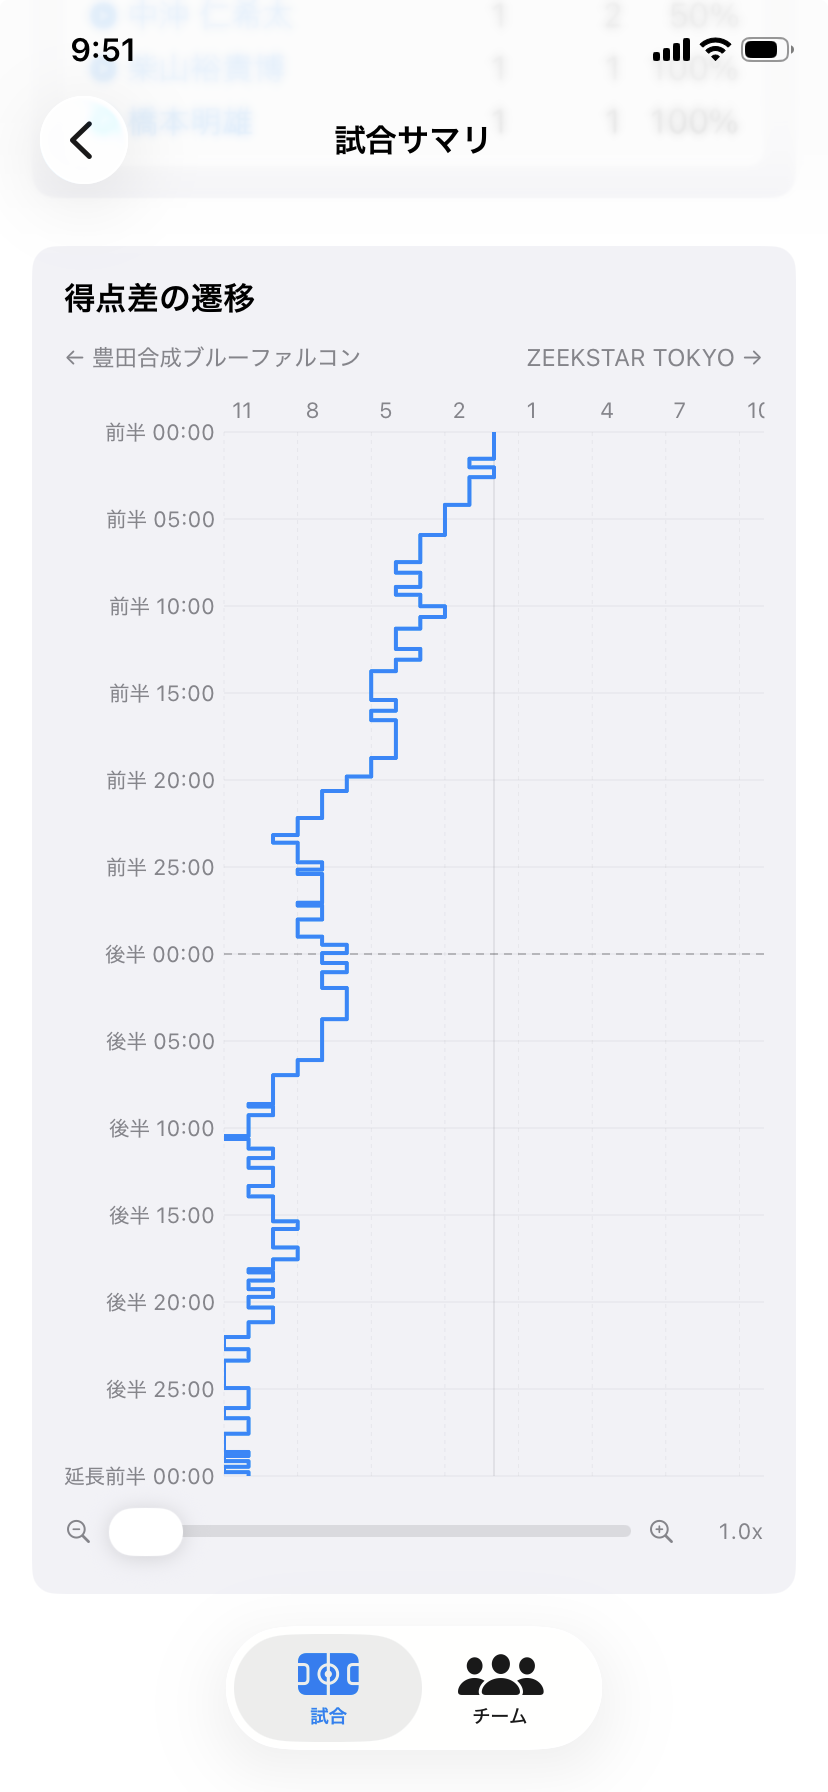
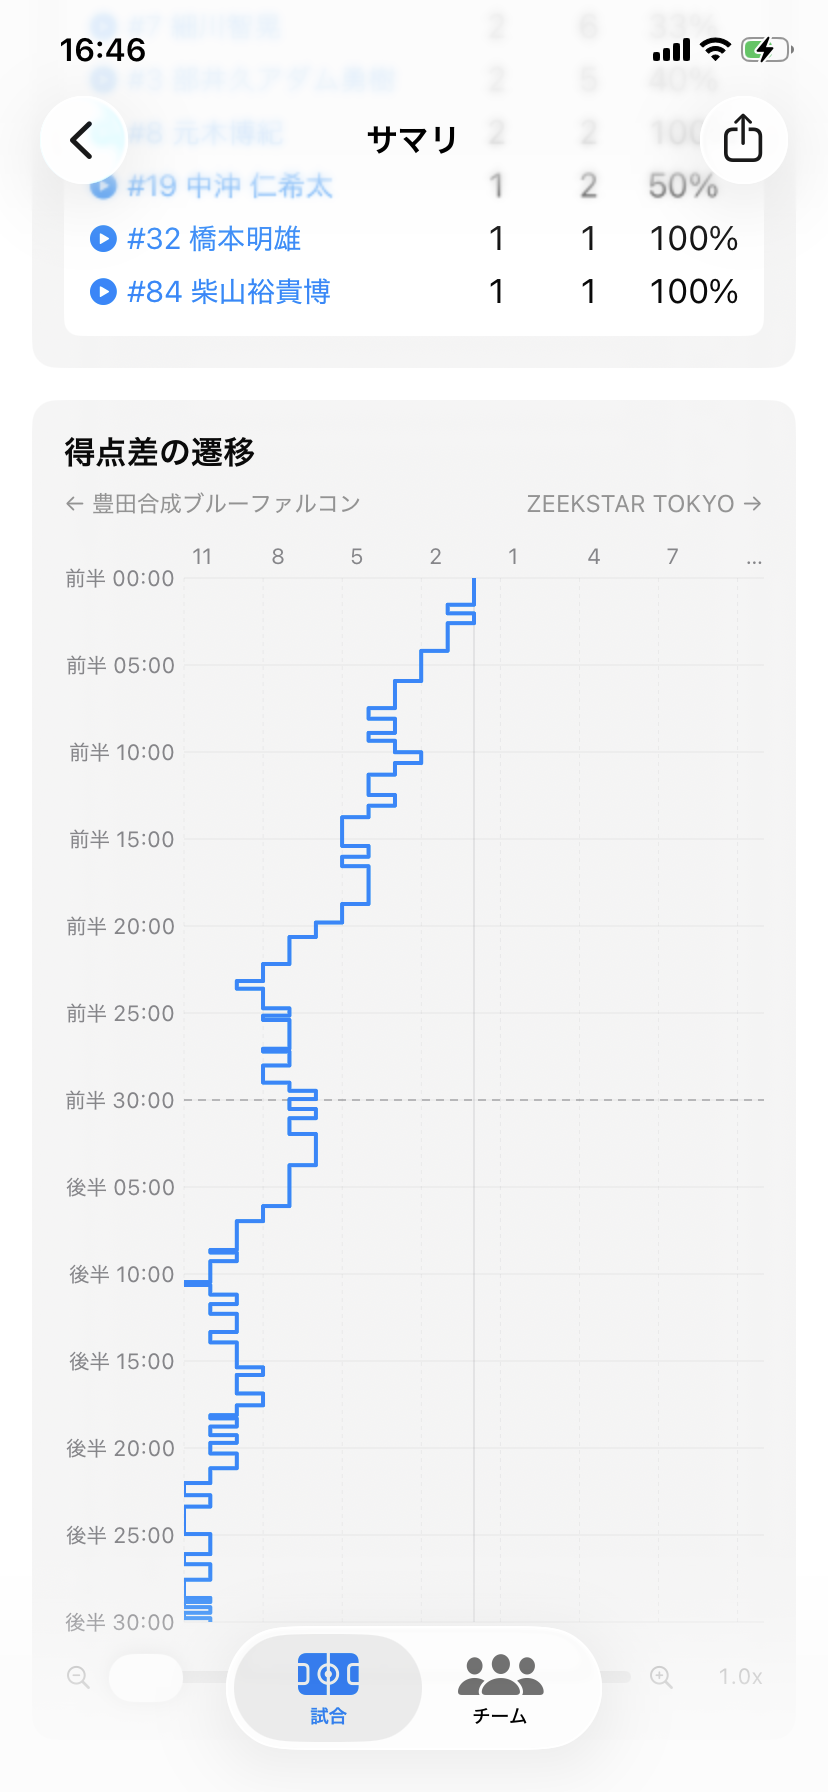
feat: セクション 4 のスクショを 1.1.0 UI に刷新（全セクションの新 UI 化完了）
- 試合一覧（match-list）を追加し、旧 pro-match は削除。score-diff は新 UI の得点差の遷移に差し替え
- 「最初からプロの試合入り」（注目の試合記録カードの枠）と「得点差で流れが見える」のラベルを追加
- これでセクション 1〜4 全スクショが 1.1.0 UI・同一試合系列に統一

diff --git a/handball-recorder/index.html b/handball-recorder/index.html
@@ -121,8 +121,19 @@
         <p>インストール直後からプロの試合が入っています。推し選手をタップすればハイライトを連続再生、得点差の流れで試合の分かれ目も見えてきます。まずはプロの試合で、このアプリでできることを体験してみてください。</p>
         <figure class="screens">
             <div class="screens-track">
-                <div class="screens-slide"><img src="images/pro-match.png" alt="プロの試合のサマリ画面"></div>
-                <div class="screens-slide"><img src="images/score-diff.png" alt="得点差の流れ画面"></div>
+                <div class="screens-slide">
+                    <div class="shot">
+                        <img src="images/match-list.png" alt="インストール直後の試合一覧（プロの試合とハイライト）">
+                        <span class="shot-label" style="left: 50%; top: 20%;">最初からプロの試合入り</span>
+                        <span class="shot-box" style="left: 4%; top: 21.3%; width: 92%; height: 23%;"></span>
+                    </div>
+                </div>
+                <div class="screens-slide">
+                    <div class="shot">
+                        <img src="images/score-diff.png" alt="得点差の遷移チャート（前後半の流れ）">
+                        <span class="shot-label" style="left: 50%; top: 20.6%;">得点差で流れが見える</span>
+                    </div>
+                </div>
             </div>
             <div class="screens-dots"></div>
         </figure>
